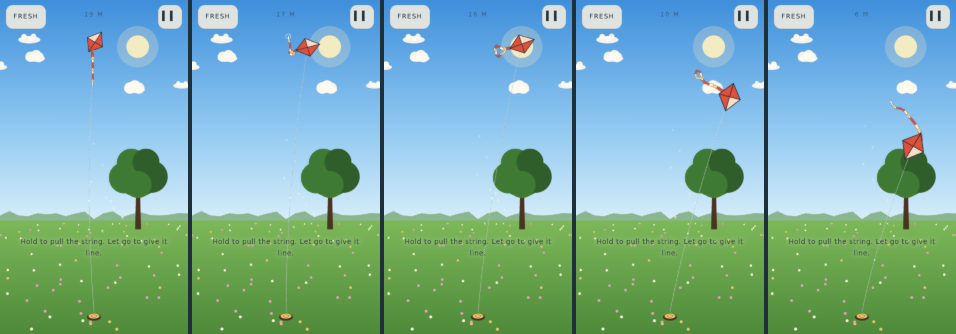
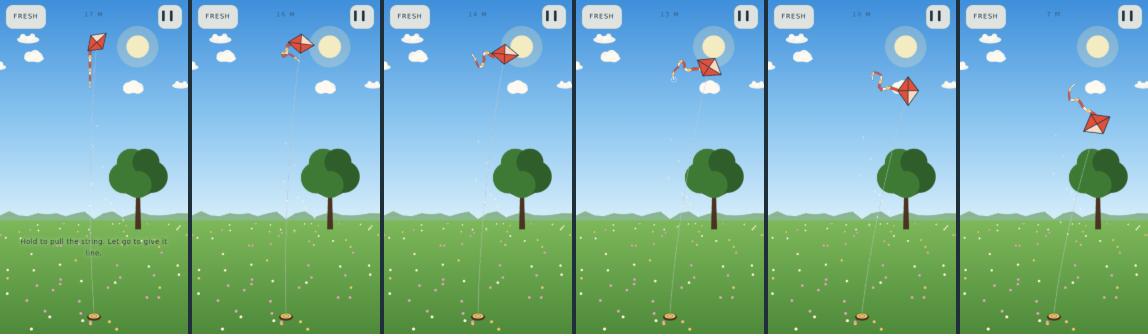
Updraft P1: the dive strip is six panels; the camera slows the sim through a DEV timeScale hook no gate uses
Claude-Session: https://claude.ai/code/session_01CohA1CK6e5eCWUdrKWPpuM

diff --git a/satellites/updraft/index.html b/satellites/updraft/index.html
@@ -1158,7 +1158,7 @@ function haptic(ms) { if (!G.haptics) return; try { if (navigator.vibrate) navig
    sideways movement while down is the lean, relative to the DOWN point and
    reset to 0 on every release. pointercancel releases. No second pointer. */
 var G = { screen: 'title', frames: 0, st: null, acc: 0, last: 0, sound: 1, motion: 1, haptics: 1, mood: 'fresh',
-  ptr: null, x0: 0, save: null, hintShown: {}, stampT: 0, flightN: 0 };
+  ptr: null, x0: 0, save: null, hintShown: {}, stampT: 0, flightN: 0, timeScale: 1 };
 function bindInput() {
   var el = CV;
   el.addEventListener('pointerdown', function (e) {
@@ -1251,7 +1251,7 @@ function endFlight(st) {
 function simTick(dtReal) {
   var st = G.st, C = CONFIG, dt = 1 / C.SIM_HZ, n = 0, evBefore, i;
   if (!st || G.screen !== 'play') return;
-  G.acc += Math.min(0.25, dtReal);
+  G.acc += Math.min(0.25, dtReal) * G.timeScale;
   while (G.acc >= dt && n < 30) {
     evBefore = st.events.length;
     step(st, dt);
@@ -1390,6 +1390,8 @@ window.UPDRAFT_DEV = {
   size: function () { return { W: W, H: H }; },
   /* the CAMERA'S liberty, not a gate's: place the kite aloft so a shot is the
      moment and not twenty seconds of launching. test/*.mjs never call this. */
+  /* the camera's second liberty: slow the sim so a strip can sample 0.4 s apart on a slow rig */
+  timeScale: function (x) { G.timeScale = x > 0 ? x : 1; return G.timeScale; },
   place: function (o) {
     if (!G.st) return null;
     var st = G.st;

diff --git a/plans/updraft/HANDOFF-UPDRAFT.md b/plans/updraft/HANDOFF-UPDRAFT.md
@@ -13,9 +13,9 @@ on branch `add-sproing-jumper` tonight.
 ## SESSION STATE (the builder updates this at the end of every session; the morning reader starts here)
 
 - 2026-09-05 Fable: plan written. Nothing built. Next action: section 5, P0, step 1.
-- 2026-09-06 13:33Z, a 110 minute builder (Fable 5.1): **P0 DONE** (`fd30aaa2`), **P1 DONE** (`9df87105`, `c2b39b31`, `314f70bf`): the page plays on a phone; `ALL GATES PASSED` five gates (lint, test 71 assertions, audio, fly with real pointers, layout at 375, 320 and 412 wide); every gate watched to fail once (section 13); shots opened and judged. NOT built: all of P2 (the mood picker is the pause MOOD button cycling gentle, fresh, blustery; gusts, Mabel and the snap all RUN in the model and on screen but have no P2 shots; trick stamps ARE on screen in calligraphy; no journal screen, no kite picker, no unlocks) and all of P3 (no Real Wind, no daily, no share; the sky DOES follow the device clock, `?hour=19` forces dusk). Corrections to the plan's numbers are in `satellites/updraft/docs/DECISIONS.md` (fourteen lines; the big ones: REEL_RATE 2.5 with REEL_BOOST 6, PAYOUT_RATE 10 only while the kite pulls, STALL_V 1.6, EL_MAX 1.0, apparent mass 0.4 kg, own speed only ever subtracts from airspeed).
+- 2026-09-06 13:33Z, a 110 minute builder (Fable 5.1): **P0 DONE** (`fd30aaa2`), **P1 DONE** (`9df87105`, `c2b39b31`, `314f70bf`, and the strip commit after `b482af76`): the page plays on a phone; `ALL GATES PASSED` five gates (lint, test 71 assertions, audio, fly with real pointers, layout at 375, 320 and 412 wide); every gate watched to fail once (section 13); shots opened and judged. NOT built: all of P2 (the mood picker is the pause MOOD button cycling gentle, fresh, blustery; gusts, Mabel and the snap all RUN in the model and on screen but have no P2 shots; trick stamps ARE on screen in calligraphy; no journal screen, no kite picker, no unlocks) and all of P3 (no Real Wind, no daily, no share; the sky DOES follow the device clock, `?hour=19` forces dusk). Corrections to the plan's numbers are in `satellites/updraft/docs/DECISIONS.md` (fourteen lines; the big ones: REEL_RATE 2.5 with REEL_BOOST 6, PAYOUT_RATE 10 only while the kite pulls, STALL_V 1.6, EL_MAX 1.0, apparent mass 0.4 kg, own speed only ever subtracts from airspeed).
   **Next action:** P2 step 1 in `satellites/updraft/index.html`: a MOOD screen (`#scrMood`, three 72 px cards Gentle, Fresh, Blustery reached from the pause MOOD button and the top left chip) replacing `cycleMood`; then the soft loss copy on a snap (the end screen already says THE LINE SNAPPED and toasts the friend); then `tools/shots.mjs p2-mabel` (place the kite at az 0.70, el 0.2, L 34 and wait for `state().snagged`), `p2-stamp` (the loop script from `sim.js` SCRIPTS.loop with a real thumb), `p2-journal`. Add `#scrMood` buttons to `test/layout.mjs`.
-  **Faults seen in the shots, for the next session (the morning reader's list):** `p1-dive.png` came out five panels not six (two 0.4 s thresholds crossed in one slow frame; make the capture loop catch up); the hint sits across the grass in every panel; the dandelion tufts are small; the real thumb dive in the strip did not stamp Dive Bomb (the sim script does; the thumb's timing under swiftshader is coarse, worth a phone check); `p1-park.png` the kite at 67 m is a small mark and its tail a stub, honest for the distance but thin; the reel at the bottom reads as a gold coin; Mabel's crown is six flat circles; the tall title still leaves the lower third empty; `docs/thumb.png` a freshly placed kite's tail hangs straight down for a second.
+  **Faults seen in the shots, for the next session (the morning reader's list):** `p1-dive.png` is six panels (the camera slows the sim to a fifth through `UPDRAFT_DEV.timeScale`, a camera liberty, never a gate's) and in it the kite dives right and ends 7 m up beside Mabel's crown, which is the snag waiting to happen on a phone; in the last panel the tail leads the kite (a whip, honest, but check it on the phone); the dandelion tufts are small; the real thumb dive in the strip did not stamp Dive Bomb (the sim script does; the thumb's timing under swiftshader is coarse, worth a phone check); `p1-park.png` the kite at 67 m is a small mark and its tail a stub, honest for the distance but thin; the reel at the bottom reads as a gold coin; Mabel's crown is six flat circles; the tall title still leaves the lower third empty; `docs/thumb.png` a freshly placed kite's tail hangs straight down for a second.
   **Director call taken:** none beyond DECISIONS.md. The name UPDRAFT, Blustery only snap, Real Wind in settings stand as the plan says.
   **For Fable:** the card in section 8 is true: `docs/thumb.png` is 32 KB, the stamp is `20260906a`, no dashes in the copy. Nothing outside the fence was touched. Music chip seat: the bottom left 120x120 is asserted free at three widths.
 
